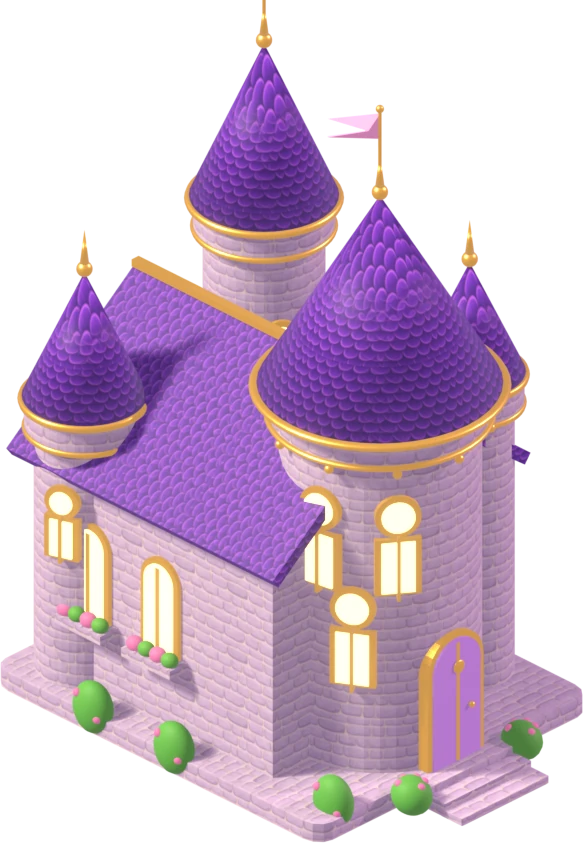
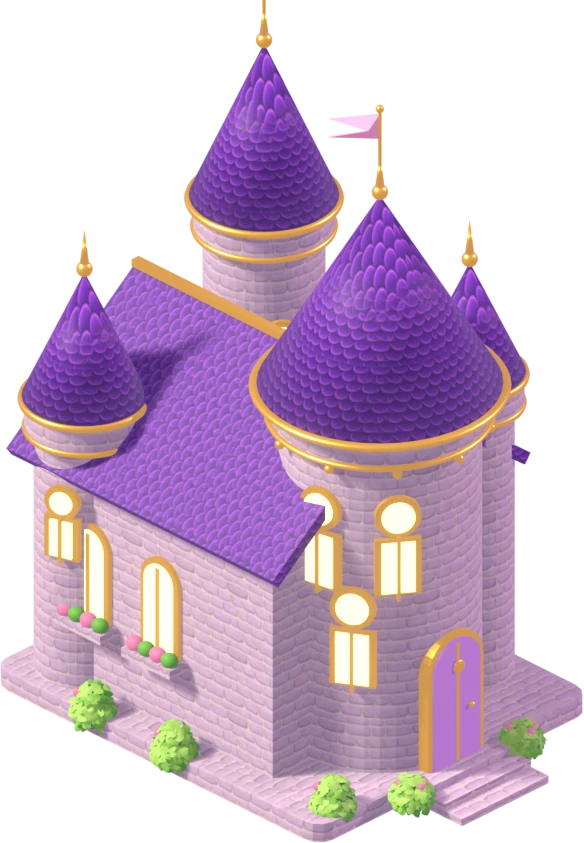
Cloud Castle: bushes get the same leaves as the trees (Hazel)
Claude-Session: https://claude.ai/code/session_018NGm5XoDovnLUTYRHnUZCu

diff --git a/living-town/art/blender/castle_world.py b/living-town/art/blender/castle_world.py
@@ -237,7 +237,7 @@ def castle_scene():
     for k, (d, z) in enumerate(((0.0, 0.28), (0.3, 0.19), (0.6, 0.1))):
         rbox(x1 + d - 0.05, dy - 0.75 + k * 0.0, 0, x1 + d + 0.32, dy + 0.75, z, 'stone', 0.03)
     for s in (-1, 1):   # flowers either side of the door
-        ball(x1 + 0.25, dy + s * 0.95, 0.25, 0.28, 0.24, 0.25, 'leaf'); [ball(x1 + 0.25 + 0.15 * math.cos(j), dy + s * 0.95 + 0.15 * math.sin(j), 0.42, 0.06, 0.06, 0.05, 'blossom') for j in range(5)]
+        leafy([(x1 + 0.25, dy + s * 0.95, 0.25, 0.27)], ls=0.45); [ball(x1 + 0.25 + 0.15 * math.cos(j), dy + s * 0.95 + 0.15 * math.sin(j), 0.42, 0.06, 0.06, 0.05, 'blossom') for j in range(5)]
     # more towers: tall one at the back, small one at the front corner, a turret behind the big tower
     tower(x0 + 0.75, y1 - 0.75, 0.75, 5.6, 0.95, 2.2)
     tower(x0 + 0.7, y0 + 0.7, 0.62, 4.0, 0.8, 1.8, flag=False)
@@ -245,7 +245,7 @@ def castle_scene():
     arch_window(x0 + 0.7, y0 + 0.7, 2.4, R(-70), 0.62, 0.3, 0.5)
     arch_window(x0 + 0.75, y1 - 0.75, 3.6, R(-30), 0.75, 0.3, 0.5)
     for (x, y) in ((x0 + 1.6, y0 - 0.05), (x0 + 3.0, y0 - 0.05), (x1 - 0.2, y0 + 0.4)):   # climbing flowers at the base
-        ball(x, y, 0.35, 0.3, 0.2, 0.35, 'leaf'); [ball(x + 0.18 * math.cos(j * 1.3), y - 0.12, 0.3 + 0.12 * (j % 3), 0.06, 0.05, 0.06, 'blossom') for j in range(5)]
+        leafy([(x, y, 0.3, 0.28), (x, y, 0.5, 0.2)], ls=0.45); [ball(x + 0.18 * math.cos(j * 1.3), y - 0.12, 0.3 + 0.12 * (j % 3), 0.06, 0.05, 0.06, 'blossom') for j in range(5)]
 
 # ---------- small things ----------
 def leaf_mesh(name, L=0.26, W=0.11):
@@ -260,6 +260,33 @@ def leaf_mesh(name, L=0.26, W=0.11):
     me = bpy.data.meshes.new(name); bm.to_mesh(me)
     for f in me.polygons: f.use_smooth = True
     return me
+_leaf_meshes = []
+def leafy(blobs, dens=520, ls=1.0, dark=0.86):
+    # cover round blobs (x, y, z, r) in little pointy leaves, lighter on top and facing the camera, dark inside
+    from mathutils import Vector, Quaternion
+    import random as _r; rr = _r.Random(int(sum(b[0] * 7 + b[1] * 13 + b[3] * 31 for b in blobs) * 100))
+    if _leaf_meshes:
+        try: _leaf_meshes[0].name
+        except ReferenceError: _leaf_meshes.clear()   # the scene was reset between renders
+    if not _leaf_meshes:
+        _leaf_meshes.extend([leaf_mesh('leafA'), leaf_mesh('leafB', 0.23, 0.1), leaf_mesh('leafC', 0.28, 0.12)])
+        for me, c in zip(_leaf_meshes, ('leaf', 'leaf2', (0.38, 0.66, 0.2))): me.materials.append(mat(c))
+    for (x, y, z, r) in blobs: ball(x, y, z, r * dark, r * dark, r * dark * 0.93, (0.08, 0.26, 0.07))
+    col = bpy.context.scene.collection
+    for (bx, by, bz, r) in blobs:
+        cnt = max(12, int(dens * r * r / (ls * ls)))
+        for k in range(cnt):
+            zz = 1 - 2 * (k + 0.5) / cnt; ph = k * 2.39996; rad = math.sqrt(1 - zz * zz)
+            nx, ny, nz = rad * math.cos(ph), rad * math.sin(ph), zz
+            if nz < -0.6 and bz - r < 0.15: continue   # nothing under the ground
+            px, py, pz = bx + nx * r, by + ny * r, bz + nz * r * 0.92
+            if any(((px - ox) ** 2 + (py - oy) ** 2 + ((pz - oz) / 0.92) ** 2) < (orr * 0.97) ** 2 for (ox, oy, oz, orr) in blobs if (ox, oy, oz, orr) != (bx, by, bz, r)): continue
+            light = nz * 0.6 - ny * 0.5 + rr.uniform(-0.4, 0.4)
+            o = bpy.data.objects.new('leaf', _leaf_meshes[2] if light > 0.45 else _leaf_meshes[1] if light > -0.1 else _leaf_meshes[0]); col.objects.link(o)
+            j = 0.04 * ls; o.location = (px + rr.uniform(-j, j), py + rr.uniform(-j, j), pz + rr.uniform(-j, j))
+            o.rotation_mode = 'QUATERNION'
+            nrm = Vector((nx + rr.uniform(-0.5, 0.5), ny + rr.uniform(-0.5, 0.5), nz + 0.4 + rr.uniform(-0.3, 0.3))).normalized()
+            o.rotation_quaternion = nrm.to_track_quat('Z', 'X') @ Quaternion((0, 0, 1), rr.uniform(0, 6.283)); sc = ls * rr.uniform(0.85, 1.25); o.scale = (sc, sc, sc)
 def c_tree():
     import random as _r; rr = _r.Random(2)
     cyl(0, 0, 0, 0.2, 1.5, 'trunk'); cyl(0, 0, 0, 0.3, 0.2, 'trunk')
@@ -267,25 +294,7 @@ def c_tree():
         bpy.ops.mesh.primitive_cylinder_add(vertices=10, radius=0.07, depth=0.8, location=(0.22 * math.cos(a), 0.22 * math.sin(a), 1.7), rotation=(R(tilt) * math.sin(a), -R(tilt) * math.cos(a), 0)); put(bpy.context.object, 'trunk', True)
     blobs = ((0, 0, 2.15, 1.05), (0.5, -0.35, 2.55, 0.7), (-0.55, 0.2, 2.5, 0.68), (0.1, 0.45, 2.8, 0.62), (0.15, -0.2, 3.0, 0.6))
     for (x, y, z, r) in blobs: ball(x, y, z, r * 0.86, r * 0.86, r * 0.8, (0.08, 0.26, 0.07))   # dark inside so gaps look deep
-    meshes = [leaf_mesh('leafA'), leaf_mesh('leafB', 0.23, 0.1), leaf_mesh('leafC', 0.28, 0.12)]
-    for me, col in zip(meshes, ('leaf', 'leaf2', (0.38, 0.66, 0.2))): me.materials.append(mat(col))
-    col = bpy.context.scene.collection
-    for (bx, by, bz, r) in blobs:
-        cnt = int(520 * r * r)
-        for k in range(cnt):   # spread leaves over each blob's outside, skipping spots buried in another blob
-            zz = 1 - 2 * (k + 0.5) / cnt; ph = k * 2.39996; rad = math.sqrt(1 - zz * zz)
-            nx, ny, nz = rad * math.cos(ph), rad * math.sin(ph), zz
-            px, py, pz = bx + nx * r, by + ny * r, bz + nz * r * 0.92
-            if any(((px - ox) ** 2 + (py - oy) ** 2 + ((pz - oz) / 0.92) ** 2) < (orr * 0.97) ** 2 for (ox, oy, oz, orr) in blobs if (ox, oy, oz, orr) != (bx, by, bz, r)): continue
-            light = nz * 0.6 - ny * 0.5 + rr.uniform(-0.4, 0.4)   # lighter leaves on top and facing the camera
-            me = meshes[2] if light > 0.45 else meshes[1] if light > -0.1 else meshes[0]
-            o = bpy.data.objects.new('leaf', me); col.objects.link(o)
-            o.location = (px + rr.uniform(-0.04, 0.04), py + rr.uniform(-0.04, 0.04), pz + rr.uniform(-0.03, 0.03))
-            o.rotation_mode = 'QUATERNION'
-            from mathutils import Vector
-            nrm = Vector((nx + rr.uniform(-0.5, 0.5), ny + rr.uniform(-0.5, 0.5), nz + 0.4 + rr.uniform(-0.3, 0.3))).normalized()
-            q = nrm.to_track_quat('Z', 'X'); from mathutils import Quaternion
-            o.rotation_quaternion = q @ Quaternion((0, 0, 1), rr.uniform(0, 6.283)); s = rr.uniform(0.85, 1.25); o.scale = (s, s, s)
+    leafy(blobs)
     for k in range(26):   # pink blossoms on the camera side
         a = rr.uniform(-2.2, 0.6); z = rr.uniform(1.7, 3.2); rad = 1.08 - abs(z - 2.4) * 0.35
         x, y = math.cos(a) * rad, math.sin(a) * rad
@@ -343,7 +352,7 @@ def c_plant(kind, c):
     elif kind == 'shroom':      # small crystal cluster
         c_crystals(0.45, (('crystal', 'crystal1', 'crystal2')[c % 3], 'crystal', ('crystal1', 'crystal2', 'crystal')[c % 3]))
     elif kind == 'succulent':   # round bush with blossoms
-        ball(0, 0, 0.2, 0.26, 0.24, 0.22, 'leaf'); ball(0.12, -0.08, 0.28, 0.16, 0.15, 0.14, 'leaf2')
+        leafy([(0, 0, 0.2, 0.24), (0.12, -0.08, 0.3, 0.15)], ls=0.4)
         for j in range(8): a = j * 0.8 - 1.5; ball(0.22 * math.cos(a), 0.22 * math.sin(a), 0.2 + 0.1 * (j % 3), 0.04, 0.04, 0.04, 'f%d' % (c % 5))
     else:                       # tall bell flowers
         for k in range(3):
